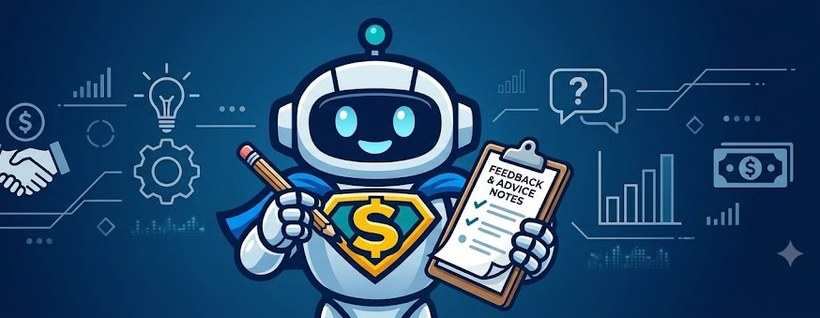
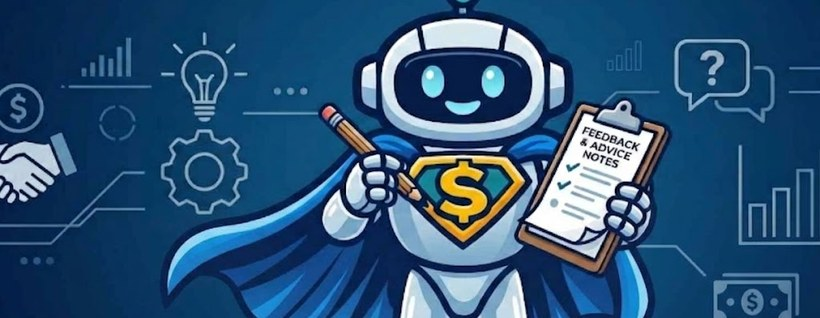
feat(arcade): feedback goes to the Cost Management DL, not the Teams channel
Support does not want arcade feedback landing in cost-management-support yet, so
the card now opens a mail to DEET.DL-cost-management@disney.com with the subject
and body pre-filled — what you were doing, what happened, what you expected,
which game and browser. Those four lines are the difference between a report
somebody can act on and one that needs three replies first.

Still not a form: the arcade is served statically from Pages as well as from the
app, and a form would only work on one of them.

Also swaps in cb_feedback2 for the card art. That source arrived letterboxed, so
the black bars are detected and trimmed before the banner crop rather than being
baked into the asset — a row or column counts as a bar when >98.5% of it is
near-black, which found the content at y[109:647].

diff --git a/index.html b/index.html
@@ -306,17 +306,19 @@
       </div>
     </a>
 
-    <!-- Deliberately a Teams link and not a form: the arcade is served statically
-         from Pages as well as from the app, and a form would only work on one of
-         them. The channel already exists and is already where support lands. -->
-    <a class="card" href="https://teams.microsoft.com/l/channel/19%3Acb00bd9aeaee4dfbb6970327add0f002%40thread.tacv2/cost-management-support?groupId=e000d429-7805-4467-b427-48b679c1062e" target="_blank" rel="noopener">
+    <!-- A mailto, not a form and not the Teams channel: the arcade is served
+         statically from Pages as well as from the app, so a form would only work
+         on one of them — and feedback goes to the Cost Management DL rather than
+         into a support channel until we are ready for it there. The body is
+         pre-filled with the four things that make a bug report useful. -->
+    <a class="card" href="mailto:DEET.DL-cost-management@disney.com?subject=CostBot%20Arcade%20feedback&body=What%20were%20you%20doing%3F%0A%0AWhat%20happened%3F%0A%0AWhat%20did%20you%20expect%3F%0A%0AWhich%20game%20and%20browser%3F%0A">
       <div class="art art-scene"><img src="shared/assets/costbot-feedback.jpg" alt=""></div>
       <div class="body">
         <h3>Feedback &amp; Bugs</h3>
-        <p>Found a bug, or want a game that does not exist yet? Tell us in the Cost
-           Management channel — screenshots welcome, half-formed ideas doubly so.</p>
+        <p>Found a bug, or want a game that does not exist yet? Email the Cost
+           Management team — screenshots welcome, half-formed ideas doubly so.</p>
         <div class="meta">
-          <span class="chip tool">Teams</span>
+          <span class="chip tool">Email</span>
           <span class="chip">Ideas &amp; bugs</span>
         </div>
       </div>
